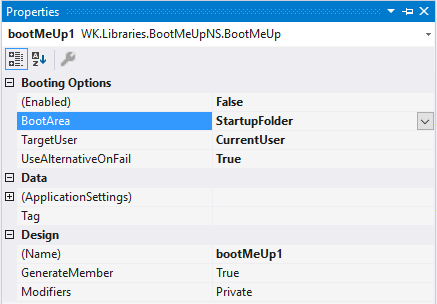
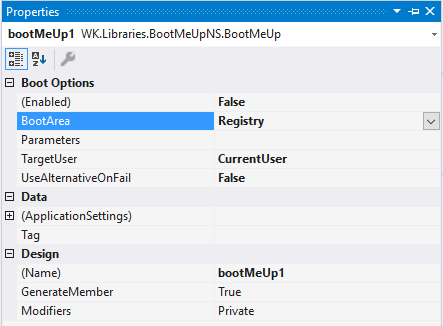
Added support for startup parameters using the 'Parameters' property.

diff --git a/BootMeUp/BootMeUp.cs b/BootMeUp/BootMeUp.cs
@@ -78,6 +78,7 @@ namespace WK.Libraries.BootMeUpNS
 
         #region Fields
 
+        private string _parameters;
         private Exception _exception;
         private bool _enabled = false;
         private ContainerControl _containerControl = null;
@@ -136,7 +137,7 @@ namespace WK.Libraries.BootMeUpNS
         /// Gets or sets a value indicating whether automatic 
         /// booting of the application is enabled.
         /// </summary>
-        [Category("Booting Options")]
+        [Category("Boot Options")]
         [ParenthesizePropertyName(true)]
         [Description("Sets a value indicating whether automatic " +
                      "booting of the application is enabled.")]
@@ -184,17 +185,39 @@ namespace WK.Libraries.BootMeUpNS
         /// be used when the default booting area fails in 
         /// registering the application.
         /// </summary>
-        [Category("Booting Options")]
+        [Category("Boot Options")]
         [Description("When set to true, the alternative booting " +
                      "area will be used when the default booting " +
                      "area fails in registering the application.")]
         public virtual bool UseAlternativeOnFail { get; set; } = true;
 
         /// <summary>
+        /// Gets or sets the launch parameter(s)  
+        /// used when booting the application.
+        /// </summary>
+        [Category("Boot Options")]
+        [Description("Sets the launch parameter(s) used " +
+                     "when booting the application.")]
+        public virtual string Parameters
+        {
+            get
+            {
+                // Let's verify whether any key exists.
+                // In the event of a key being found, the
+                // registered parameters will be copied 
+                // to the '_parameters' variable.
+                KeyExists();
+
+                return _parameters;
+            }
+            set => _parameters = value;
+        }
+
+        /// <summary>
         /// Gets or sets the boot area where the application 
         /// will be registered for startup/booting.
         /// </summary>
-        [Category("Booting Options")]
+        [Category("Boot Options")]
         [Description("Sets the boot area where the application " +
                      "will be registered for startup/booting.")]
         public virtual BootAreas BootArea { get; set; } = BootAreas.Registry;
@@ -207,7 +230,7 @@ namespace WK.Libraries.BootMeUpNS
         /// to successfully complete registering the application 
         /// for startup with all users.
         /// </summary>
-        [Category("Booting Options")]
+        [Category("Boot Options")]
         [Description("Sets the target user to be used when registering the " +
                      "application for startup. Please note that setting the " +
                      "option 'AllUsers' may require you to have the necessary " +
@@ -586,7 +609,7 @@ namespace WK.Libraries.BootMeUpNS
 
                     using (key)
                     {
-                        key.SetValue(GetAppName(), "\"" + GetAppPath() + "\"");
+                        key.SetValue(GetAppName(), "\"" + GetAppPath() + $"\" {Parameters}");
                     }
                 }
 
@@ -674,7 +697,29 @@ namespace WK.Libraries.BootMeUpNS
                 using (key)
                 {
                     if (key.GetValue(name) != null)
-                        path = key.GetValue(name).ToString().ToLower().Replace("\"", "");
+                    {
+                        string[] pathVariables = key.GetValue(name).ToString().ToLower().Split('"');
+
+                        /*
+                         * Quick Guide On 'pathVariables':
+                         * 
+                         * 1. pathVariables[0]: Is the first delimited section and has no data.
+                         * 2. pathVariables[1]: Is the second section and contains the app's path.
+                         * 3. pathVariables[2]: Is the last section and contains the app's launch params.
+                         * 
+                         */
+
+                        path = pathVariables[1];
+
+                        if (!string.IsNullOrEmpty(pathVariables[2]))
+                        {
+                            // Clean launch parameters.
+                            pathVariables[2] = pathVariables[2].Remove(0, 1);
+
+                            // Assign launch parameters to '_parameters' variable.
+                            _parameters = pathVariables[2];
+                        }
+                    }
 
                     if (path == GetAppPath().ToLower())
                         return true;
@@ -724,7 +769,20 @@ namespace WK.Libraries.BootMeUpNS
                 using (key)
                 {
                     if (key.GetValue(name) != null)
-                        path = key.GetValue(name).ToString().ToLower().Replace("\"", "");
+                    {
+                        string[] pathVariables = key.GetValue(name).ToString().ToLower().Split('"');
+
+                        /*
+                         * Quick Guide On 'pathVariables':
+                         * 
+                         * 1. pathVariables[0]: Is the first delimited section and has no data.
+                         * 2. pathVariables[1]: Is the second section and hosts the app's path.
+                         * 3. pathVariables[2]: Is the last section and hosts the app's launch params.
+                         * 
+                         */
+
+                        path = pathVariables[1];
+                    }
 
                     if (path != GetAppPath().ToLower())
                         return true;

diff --git a/BootMeUp/Properties/AssemblyInfo.cs b/BootMeUp/Properties/AssemblyInfo.cs
@@ -10,7 +10,7 @@ using System.Runtime.InteropServices;
 [assembly: AssemblyConfiguration("")]
 [assembly: AssemblyCompany("Willy Kimura")]
 [assembly: AssemblyProduct("BootMeUp")]
-[assembly: AssemblyCopyright("Copyright © 2019, Willy Kimura.")]
+[assembly: AssemblyCopyright("Copyright © 2020, Willy Kimura.")]
 [assembly: AssemblyTrademark("A product of Willy Kimura.")]
 [assembly: AssemblyCulture("")]
 
@@ -32,5 +32,5 @@ using System.Runtime.InteropServices;
 // You can specify all the values or you can default the Build and Revision Numbers
 // by using the '*' as shown below:
 // [assembly: AssemblyVersion("1.0.*")]
-[assembly: AssemblyVersion("1.0.0.0")]
-[assembly: AssemblyFileVersion("1.0.0.0")]
+[assembly: AssemblyVersion("1.2.0.0")]
+[assembly: AssemblyFileVersion("1.2.0.0")]

diff --git a/README.md b/README.md
@@ -1,9 +1,9 @@
 # BootMeUp
 [![nuget-downloads](https://img.shields.io/nuget/dt/BootMeUp?label=Downloads)](https://www.nuget.org/packages/BootMeUp/) [![wk-donate](https://img.shields.io/badge/BuyMeACoffee-Donate-orange.svg)](https://www.buymeacoffee.com/willykimura)
 
-**BootMeUp** is a .NET library that provides automatic startup for .NET applications at system-boot while providing additional startup management options.
-
 ![bootmeup-logo](Assets/bootmeup-logo.png)
+
+**BootMeUp** is a .NET library that provides automatic startup for .NET applications at system-boot while providing additional startup management options.
 
 # Installation 
 
@@ -14,12 +14,13 @@ To install via the [NuGet Package Manager](https://www.nuget.org/packages/BootMe
 # Features
 - Built as a component making it accessible in Design Mode.
 - Supports [.NET Framework 4.0](https://www.microsoft.com/en-us/download/details.aspx?id=17718) and higher.
-- Provides support for the major Windows application startup areas: the *Registry* and the *Startup Folder*.
-- Auto-checks whether the application was moved from its original location and updates the registry or shortcut existing appropriately.
-- Seamless registering/unregistering of your applications from the supported startup areas.
-- Ability to register your applications in the *current user* (default) domain or *all users* domain (requires Administrative privileges).
-- Uses alternative method of registering your applications if the default fails, giving you 100% confidence when deploying your applications whenever automatic startup is enabled.
-- Includes additional properties and methods that help you manage application startups.
+- Supports the main Windows startup areas: the *Registry* and the *Startup Folder*.
+- Simplified registering/unregistering of applications from the supported startup areas.
+- Verifies whether an application has been moved from its original location and updates the registry or existing shortcut appropriately.
+- Can register applications in the **Current User** (default) domain or **All Users** domain (requires Admin privileges).
+- Provides support for startup parameters when launching an application.
+- Uses alternative method of registration if the default fails, giving you 100% confidence when deploying your applications while automatic startup is enabled.
+- Includes additional properties and methods to help manage application startups.
 
 # Usage
 ### Working in Design Mode
